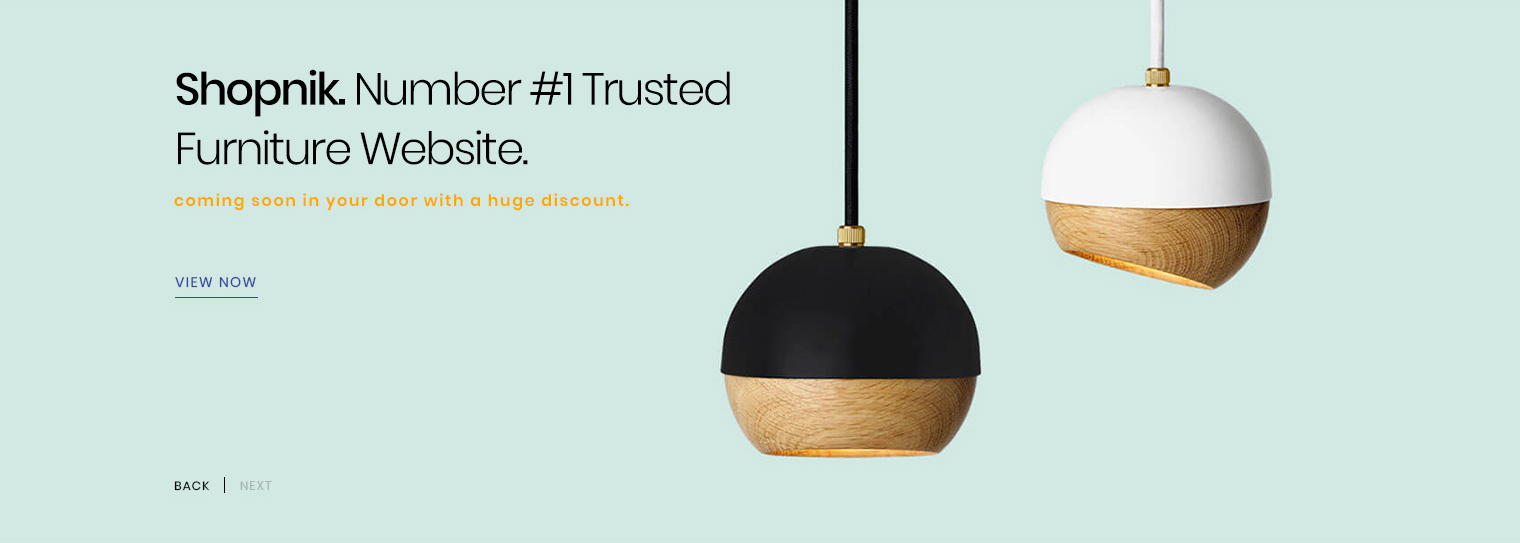
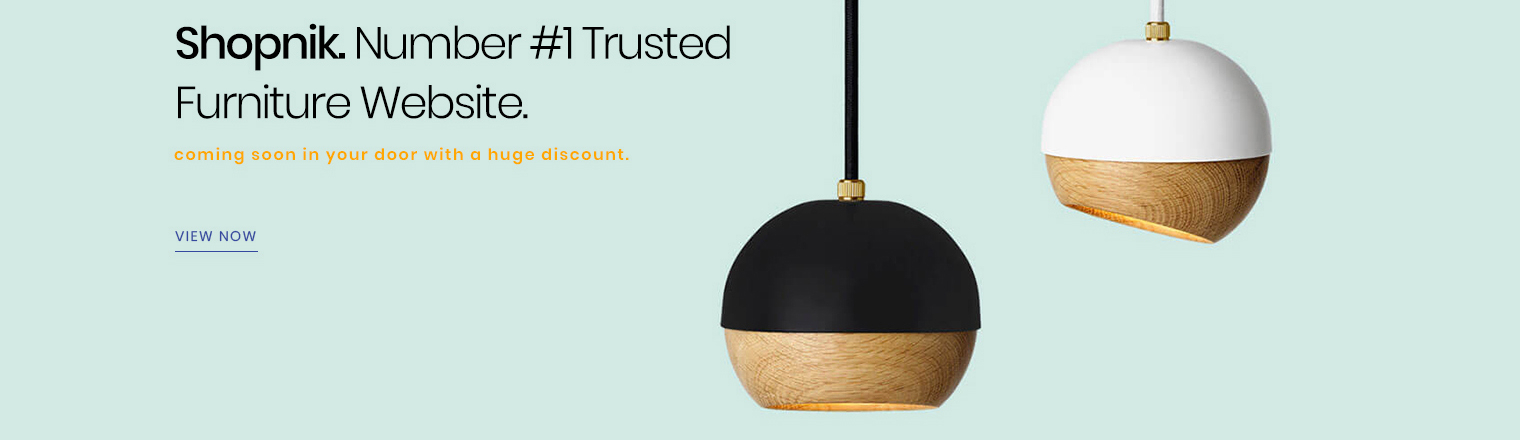
Updated slide height in ImageSlideshow

diff --git a/src/components/ImageSlideshow.tsx b/src/components/ImageSlideshow.tsx
@@ -51,7 +51,7 @@ const ImageSlideshow = () => {
     setTimer(setTimeout(() => setCurrentImg(currentImg + 1), 5000));
   };
 
-  const images = ['/slide.jpg', '/slide-2.jpg'];
+  const images = ['/slide.jpg', '/slide.jpg'];
 
   useEffect(() => setShouldTransition(true), [shouldTransition]);
 
@@ -87,7 +87,7 @@ const ImageSlideshow = () => {
             <Image
               src={images[images.length - 1]}
               width={1520}
-              height={543}
+              height={440}
               alt="test"
             />
           </a>
@@ -97,7 +97,7 @@ const ImageSlideshow = () => {
         {images.map(img => (
           <Link href="/keyboard/a" key={img}>
             <a>
-              <Image src={img} width={1520} height={543} alt="test" />
+              <Image src={img} width={1520} height={440} alt="test" />
             </a>
           </Link>
         ))}
@@ -105,7 +105,7 @@ const ImageSlideshow = () => {
         {/* First image */}
         <Link href="/mouse/5">
           <a>
-            <Image src={images[0]} width={1520} height={543} alt="test" />
+            <Image src={images[0]} width={1520} height={440} alt="test" />
           </a>
         </Link>
       </SlidesContainer>
